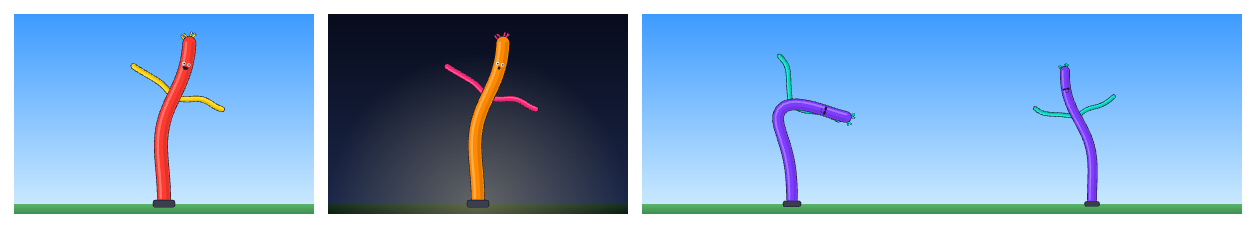
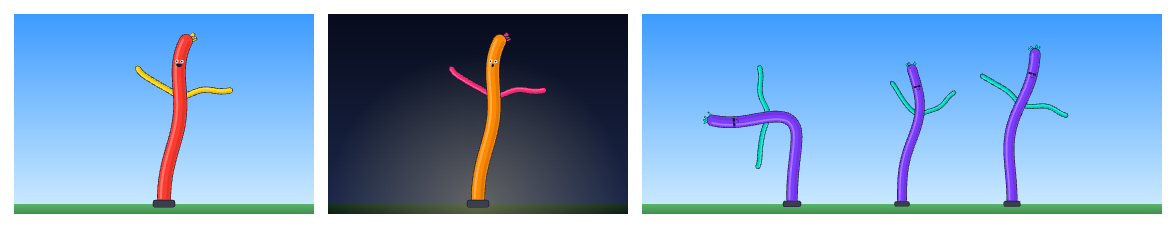
Cluster crowds, and script the CDN purge
Dancers now stand half a widget-height apart and centred, instead of each
claiming a full box: at count 3 the embed is 2.6x its height, not 4.5x.

release.sh tags, pushes and purges the jsDelivr @1 alias, then polls until
the CDN really serves the new version.

Changed region(s): [[0.0, 0.0307, 1.0, 0.9518], [0.0306, 0.0307, 0.2449, 0.0614]]

diff --git a/skydancer.js b/skydancer.js
@@ -4,7 +4,7 @@
 //   <sky-dancer color="#ff3b30" accent="#ffd60a" face="cool" style="height: 500px"></sky-dancer>
 //
 // Every attribute is optional (defaults below). The widget crops to the dancer:
-// 400px tall and 1.5x as wide per dancer, unless the page styles it otherwise.
+// 400px tall and 1.5x as wide, plus a bit per extra dancer, unless the page styles it.
 
 (() => {
   if (customElements.get('sky-dancer')) return;  // script included twice
@@ -52,6 +52,9 @@
   // wind, so the embed is a box around it rather than the whole page width.
   const CROP_RATIO = 1.5;
   const MAX_COUNT = 6;
+  // gap between dancers, in widget heights: they stand shoulder to shoulder,
+  // so a crowd clusters instead of each one claiming a full box
+  const SPACING = 0.55;
   // a crowd looks like a crowd when they aren't all the same size
   const SIZES = [1, 0.84, 0.94, 0.8, 0.9, 0.87];
   const OUTLINE = '#1a1a2e';
@@ -62,7 +65,7 @@
       display: inline-block;
       vertical-align: middle;
       height: 400px;
-      aspect-ratio: calc(${CROP_RATIO} * var(--count, 1));
+      aspect-ratio: calc(${CROP_RATIO} + (var(--count, 1) - 1) * ${SPACING});
     }
     canvas {
       display: block;
@@ -191,8 +194,10 @@
       }
 
       const n = count();
+      const gap = SPACING * H;
       // smallest first, so they read as standing further back
-      return Array.from({ length: n }, (_, i) => dancerAt(t + i * 3.7, W * (i + 0.5) / n, SIZES[i % SIZES.length]))
+      return Array.from({ length: n }, (_, i) =>
+        dancerAt(t + i * 3.7, W / 2 + (i - (n - 1) / 2) * gap, SIZES[i % SIZES.length]))
         .sort((a, b) => a.girth - b.girth);
     }
 

diff --git a/README.md b/README.md
@@ -13,7 +13,7 @@ An animated inflatable tube man as an embeddable web widget. It has no dependenc
 <sky-dancer color="#7d3cff" accent="#00e0c6" face="cool" style="height: 500px"></sky-dancer>
 ```
 
-The widget is 400px tall by default and crops to the dancer: its width follows its height (1.5x per dancer), so it sits inline like an image rather than filling the page. Size it with CSS -- set the height and the width follows, or set both to override the crop. The dancer scales with the height and keeps its proportions.
+The widget is 400px tall by default and crops to the dancer: its width follows its height (1.5x, plus a little per extra dancer), so it sits inline like an image rather than filling the page. Size it with CSS -- set the height and the width follows, or set both to override the crop. The dancer scales with the height and keeps its proportions.
 
 | Attribute    | Default   | Meaning                                    |
 |--------------|-----------|--------------------------------------------|
@@ -29,7 +29,7 @@ The widget is 400px tall by default and crops to the dancer: its width follows i
 | `hair`       | `true`    | `false` hides the hair                     |
 | `background` | `true`    | `false` drops the sky and ground (transparent) |
 | `night`      | `false`   | `true` for a dark sky and a spotlit dancer |
-| `count`      | `1`       | how many dancers share the ground (max 6)  |
+| `count`      | `1`       | how many dancers stand together (max 6)    |
 
 Poking a dancer knocks the air out of it. Where the viewer's system asks for reduced motion, it holds a still pose instead of animating.
 
